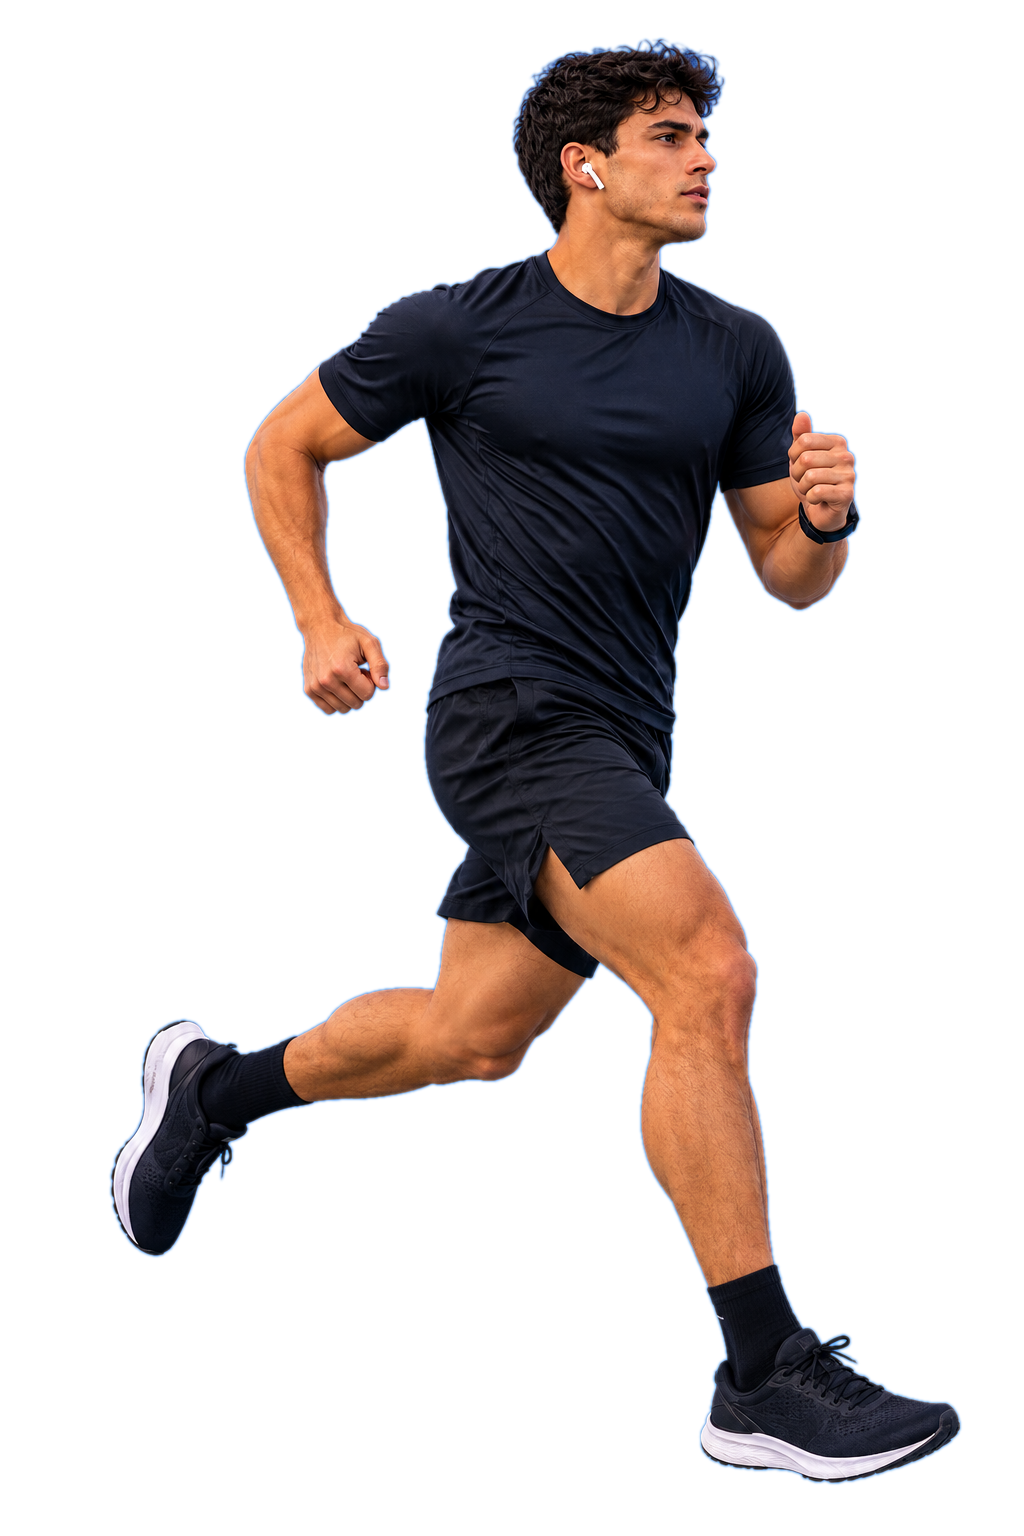
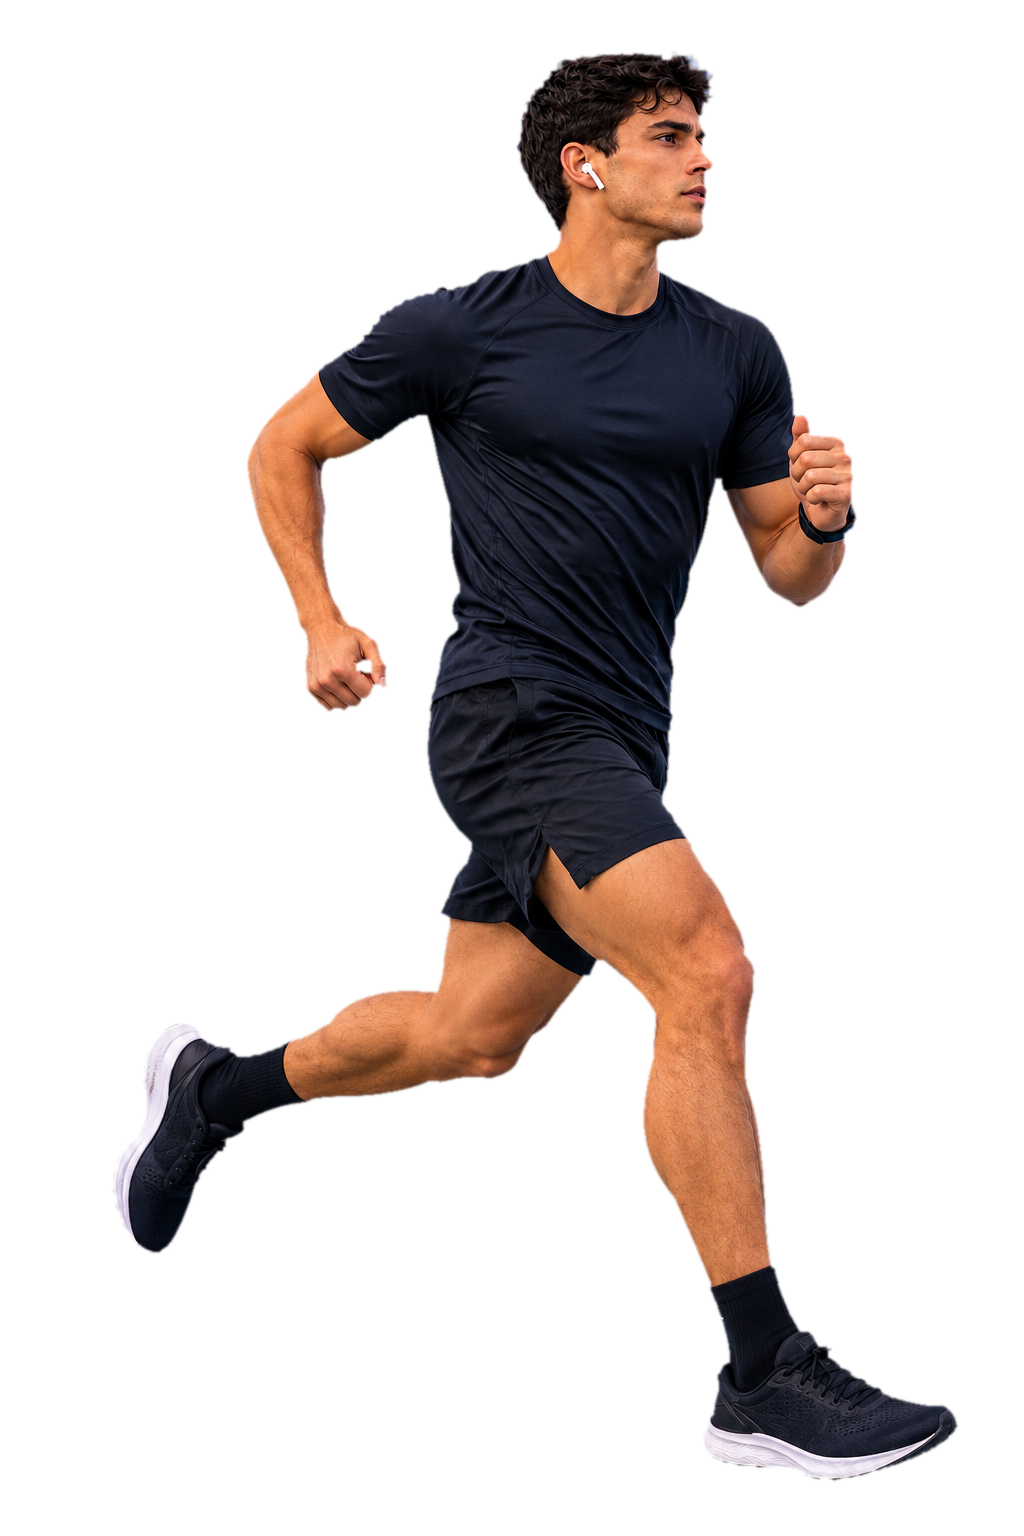
novo

diff --git a/src/index.css b/src/index.css
@@ -472,7 +472,7 @@ h1, h2, h3, h4 {
 
 .gender-banner {
   position: relative;
-  aspect-ratio: 4 / 5;
+  aspect-ratio: 16 / 11;
   display: flex;
   flex-direction: column;
   justify-content: flex-end;
@@ -525,10 +525,10 @@ h1, h2, h3, h4 {
 .gender-photo {
   position: absolute;
   bottom: 0;
-  height: 122%;
+  height: 98%;
   width: auto;
   object-fit: contain;
-  transform: scale(1.35);
+  transform: scale(1.22);
   transition: transform 1.3s cubic-bezier(0.16, 1, 0.3, 1);
 }
 
@@ -542,6 +542,30 @@ h1, h2, h3, h4 {
 
 .gender-banner-revealed .gender-photo {
   transform: scale(1);
+}
+
+.gender-banner:hover {
+  box-shadow: 0 0 0 1px var(--hivis), 0 24px 60px -24px rgba(217, 255, 63, 0.4);
+}
+
+.gender-banner:hover .gender-photo {
+  transform: scale(1.05);
+}
+
+.gender-cta {
+  display: inline-flex;
+  align-items: center;
+  gap: 6px;
+}
+
+.gender-cta::after {
+  content: "→";
+  display: inline-block;
+  transition: transform 0.3s ease;
+}
+
+.gender-banner:hover .gender-cta::after {
+  transform: translateX(6px);
 }
 
 .gender-sweep {

diff --git a/src/components/GenderBanner.jsx b/src/components/GenderBanner.jsx
@@ -38,7 +38,7 @@ export default function GenderBanner({ to, image, label, eyebrow = "Para o trein
       <div className="gender-sweep" aria-hidden="true" />
       <span className="mono gender-eyebrow">{eyebrow}</span>
       <span className="gender-title">{label}</span>
-      <span className="mono gender-cta">Comprar agora →</span>
+      <span className="mono gender-cta">Comprar agora</span>
     </Link>
   );
 }
